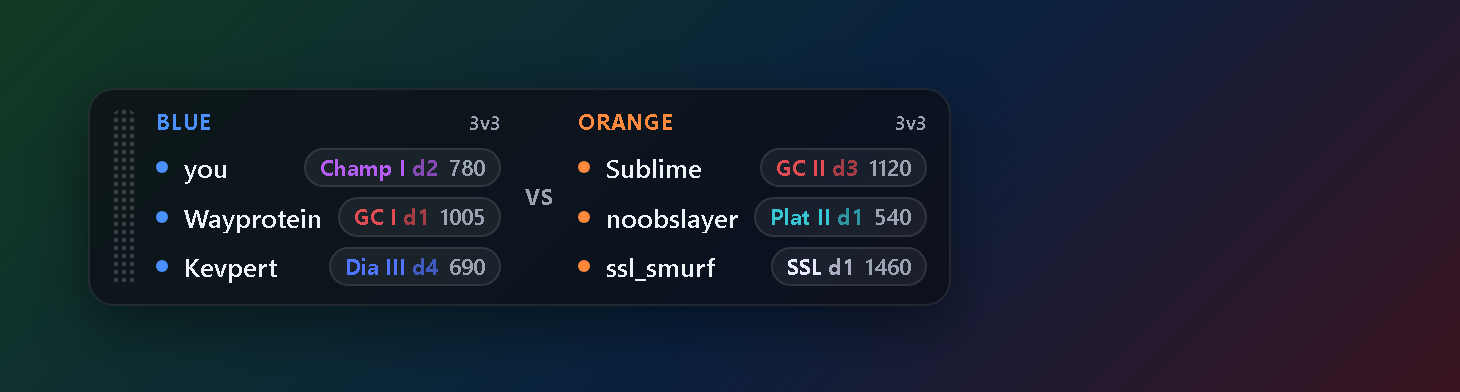
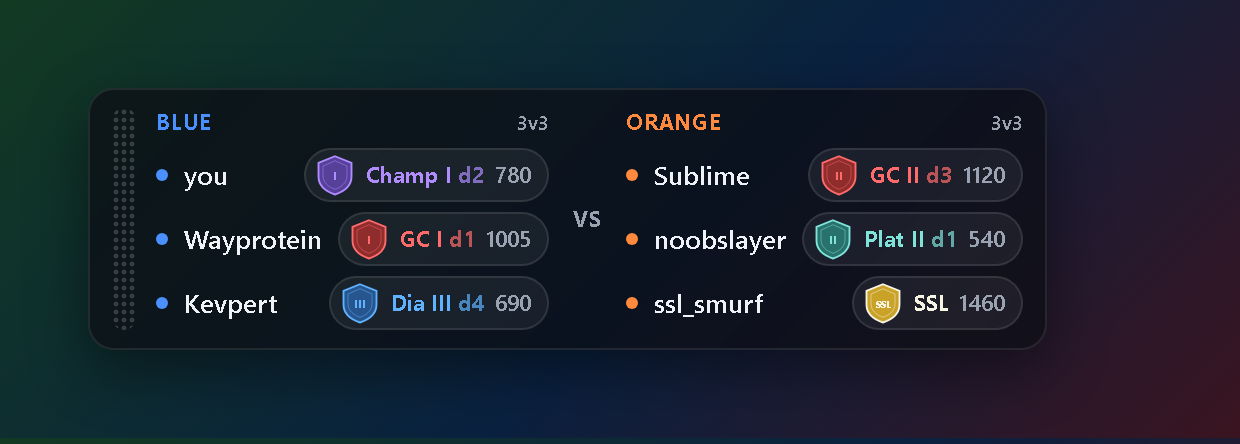
Rank emblems in the badges + download badge in README
Every player row now carries a shield emblem in the tier's colours with the
tier numeral — original art (the same fallback design the big tracker draws),
so no game assets ship with the repo. Screenshot updated; v1.0.1.

diff --git a/src/public/overlay.html b/src/public/overlay.html
@@ -59,11 +59,12 @@
 
   .badge {
     display: inline-flex; align-items: center; gap: 5px;
-    padding: 2px 7px; border-radius: 999px;
+    padding: 2px 8px 2px 4px; border-radius: 999px;
     font-size: 11px; font-weight: 700; white-space: nowrap;
     background: rgba(255, 255, 255, 0.06);
     border: 1px solid rgba(255, 255, 255, 0.10);
   }
+  .badge .emblem { width: 21px; height: 21px; display: block; flex: 0 0 21px; }
   .badge .tier { color: var(--tier, #cfd6e2); }
   .badge .mmr { color: var(--muted); font-weight: 600; }
   .badge.loading, .badge.none { color: var(--muted); }
@@ -79,17 +80,45 @@
   <div id="wrap"><div id="card"><div id="grip" title="Drag to move"></div></div></div>
 
 <script>
-// --- rank tier colours, keyed by the first word of the label ------------------
-const TIER_COLOR = {
-  Unranked: '#6b7280', Bronze: '#b06a3b', Silver: '#9aa7b8', Gold: '#e9b949',
-  Platinum: '#37c7d4', Diamond: '#4f74ff', Champion: '#b45cf0',
-  'Grand Champion': '#e14b52', 'Supersonic Legend': '#e8e8ff'
-};
+// --- rank emblems -------------------------------------------------------------
+// One entry per competitive tier, in the game's order. The emblem is drawn as
+// an SVG shield in the tier's colours with the tier numeral inside — original
+// art, so the overlay can ship it without touching the game's own icons.
+const TIERS = ['Unranked', 'Bronze I', 'Bronze II', 'Bronze III', 'Silver I', 'Silver II', 'Silver III',
+  'Gold I', 'Gold II', 'Gold III', 'Platinum I', 'Platinum II', 'Platinum III', 'Diamond I', 'Diamond II',
+  'Diamond III', 'Champion I', 'Champion II', 'Champion III', 'Grand Champion I', 'Grand Champion II',
+  'Grand Champion III', 'Supersonic Legend'];
+// [bright, dark] per tier group: Unranked, Bronze, Silver, Gold, Plat, Diamond, Champ, GC, SSL.
+function tierPalette(i) {
+  if (i === 0) return ['#8B98A9', '#39424E'];
+  if (i <= 3) return ['#C97C4A', '#6E3E22'];
+  if (i <= 6) return ['#C7D0DB', '#6E7987'];
+  if (i <= 9) return ['#EFC75E', '#8A6E28'];
+  if (i <= 12) return ['#7FE3DA', '#29716B'];
+  if (i <= 15) return ['#5FB2FF', '#27568F'];
+  if (i <= 18) return ['#B08CFF', '#57409A'];
+  if (i <= 21) return ['#FF6B6B', '#8F2C2C'];
+  return ['#F8F4E3', '#C9A227'];
+}
+function svgEmblem(i) {
+  const c = tierPalette(i);
+  const m = TIERS[i].match(/ (I{1,3})$/);
+  const label = m ? m[1] : (i === 22 ? 'SSL' : '');
+  return '<svg class="emblem" viewBox="0 0 56 56" role="img" aria-label="' + TIERS[i] + '">'
+    + '<path d="M28 3 L50 12 V30 C50 42 40 50 28 54 C16 50 6 42 6 30 V12 Z" fill="' + c[1] + '" stroke="' + c[0] + '" stroke-width="2.5"/>'
+    + '<path d="M28 9 L44 16 V29 C44 38 37 44 28 47 C19 44 12 38 12 29 V16 Z" fill="none" stroke="' + c[0] + '" stroke-width="1.2" opacity=".55"/>'
+    + '<text x="28" y="34" text-anchor="middle" font-size="' + (label === 'SSL' ? 12 : 15) + '" font-weight="800" fill="' + c[0] + '" font-family="Segoe UI,sans-serif">' + label + '</text></svg>';
+}
+// Which emblem a rank object gets: trust the numeric tier when the service
+// sent one, otherwise find the label in the tier list.
+function tierIndex(rank) {
+  if (rank && Number.isFinite(rank.tier) && rank.tier >= 0 && rank.tier < TIERS.length) return rank.tier;
+  const i = TIERS.indexOf(rank && rank.label);
+  return i >= 0 ? i : 0;
+}
 function tierColor(label) {
-  if (!label) return '#6b7280';
-  if (label.startsWith('Grand Champion')) return TIER_COLOR['Grand Champion'];
-  if (label.startsWith('Supersonic')) return TIER_COLOR['Supersonic Legend'];
-  return TIER_COLOR[label.split(' ')[0]] || '#cfd6e2';
+  const i = TIERS.indexOf(label);
+  return tierPalette(i >= 0 ? i : 0)[0];
 }
 // Compress "Grand Champion II" -> "GC II" etc. so the badge stays narrow.
 function shortLabel(label) {
@@ -111,11 +140,12 @@ const grip = document.getElementById('grip');
 function badge(rank) {
   if (rank === undefined) return '<span class="badge loading">…</span>';
   if (rank === null) return '<span class="badge none">—</span>';
-  const col = tierColor(rank.label);
-  const div = rank.division ? ' <span style="opacity:.7">d' + rank.division + '</span>' : '';
+  const i = tierIndex(rank);
+  const col = tierPalette(i)[0];
+  const div = i > 0 && i < 22 && rank.division ? ' <span style="opacity:.7">d' + rank.division + '</span>' : '';
   const mmr = Number.isFinite(rank.mmr) ? '<span class="mmr">' + rank.mmr + '</span>' : '';
-  return '<span class="badge" style="--tier:' + col + '"><span class="tier">' +
-    shortLabel(rank.label) + div + '</span>' + mmr + '</span>';
+  return '<span class="badge" style="--tier:' + col + '">' + svgEmblem(i) +
+    '<span class="tier">' + shortLabel(rank.label) + div + '</span>' + mmr + '</span>';
 }
 
 function teamHtml(players, team, playlistKey) {
@@ -177,12 +207,12 @@ function connect() {
 const DEMO_SNAPSHOT = {
   playlistKey: 'p3', playlistId: 13, feed: 'connected',
   players: [
-    { name: 'you', team: 0, rank: { label: 'Champion I', division: 2, mmr: 780 } },
-    { name: 'Wayprotein', team: 0, rank: { label: 'Grand Champion I', division: 1, mmr: 1005 } },
-    { name: 'Kevpert', team: 0, rank: { label: 'Diamond III', division: 4, mmr: 690 } },
-    { name: 'Sublime', team: 1, rank: { label: 'Grand Champion II', division: 3, mmr: 1120 } },
-    { name: 'noobslayer', team: 1, rank: { label: 'Platinum II', division: 1, mmr: 540 } },
-    { name: 'ssl_smurf', team: 1, rank: { label: 'Supersonic Legend', division: 1, mmr: 1460 } }
+    { name: 'you', team: 0, rank: { label: 'Champion I', tier: 16, division: 2, mmr: 780 } },
+    { name: 'Wayprotein', team: 0, rank: { label: 'Grand Champion I', tier: 19, division: 1, mmr: 1005 } },
+    { name: 'Kevpert', team: 0, rank: { label: 'Diamond III', tier: 15, division: 4, mmr: 690 } },
+    { name: 'Sublime', team: 1, rank: { label: 'Grand Champion II', tier: 20, division: 3, mmr: 1120 } },
+    { name: 'noobslayer', team: 1, rank: { label: 'Platinum II', tier: 11, division: 1, mmr: 540 } },
+    { name: 'ssl_smurf', team: 1, rank: { label: 'Supersonic Legend', tier: 22, division: 1, mmr: 1460 } }
   ]
 };
 if (new URLSearchParams(location.search).has('demo')) {

diff --git a/README.md b/README.md
@@ -1,8 +1,11 @@
 # RL Rank Overlay
 
+[![Downloads](https://img.shields.io/github/downloads/HilsenFar/rl-rank-overlay/total?label=downloads&color=4a90ff)](https://github.com/HilsenFar/rl-rank-overlay/releases)
+[![Latest release](https://img.shields.io/github/v/release/HilsenFar/rl-rank-overlay?label=latest&color=2a2f3a)](https://github.com/HilsenFar/rl-rank-overlay/releases/latest)
+
 A small, transparent overlay for **Rocket League** that shows every player in
 your current match with their competitive rank — your teammates and your
-opponents, colour-coded by tier, with MMR. It sits on top of the game, hides
+opponents, each with a rank emblem in the tier's colours, division and MMR. It sits on top of the game, hides
 itself when the game isn't running, and you can drag it wherever you like.
 
 ![The overlay showing both teams' ranks over a match](docs/overlay.png)
